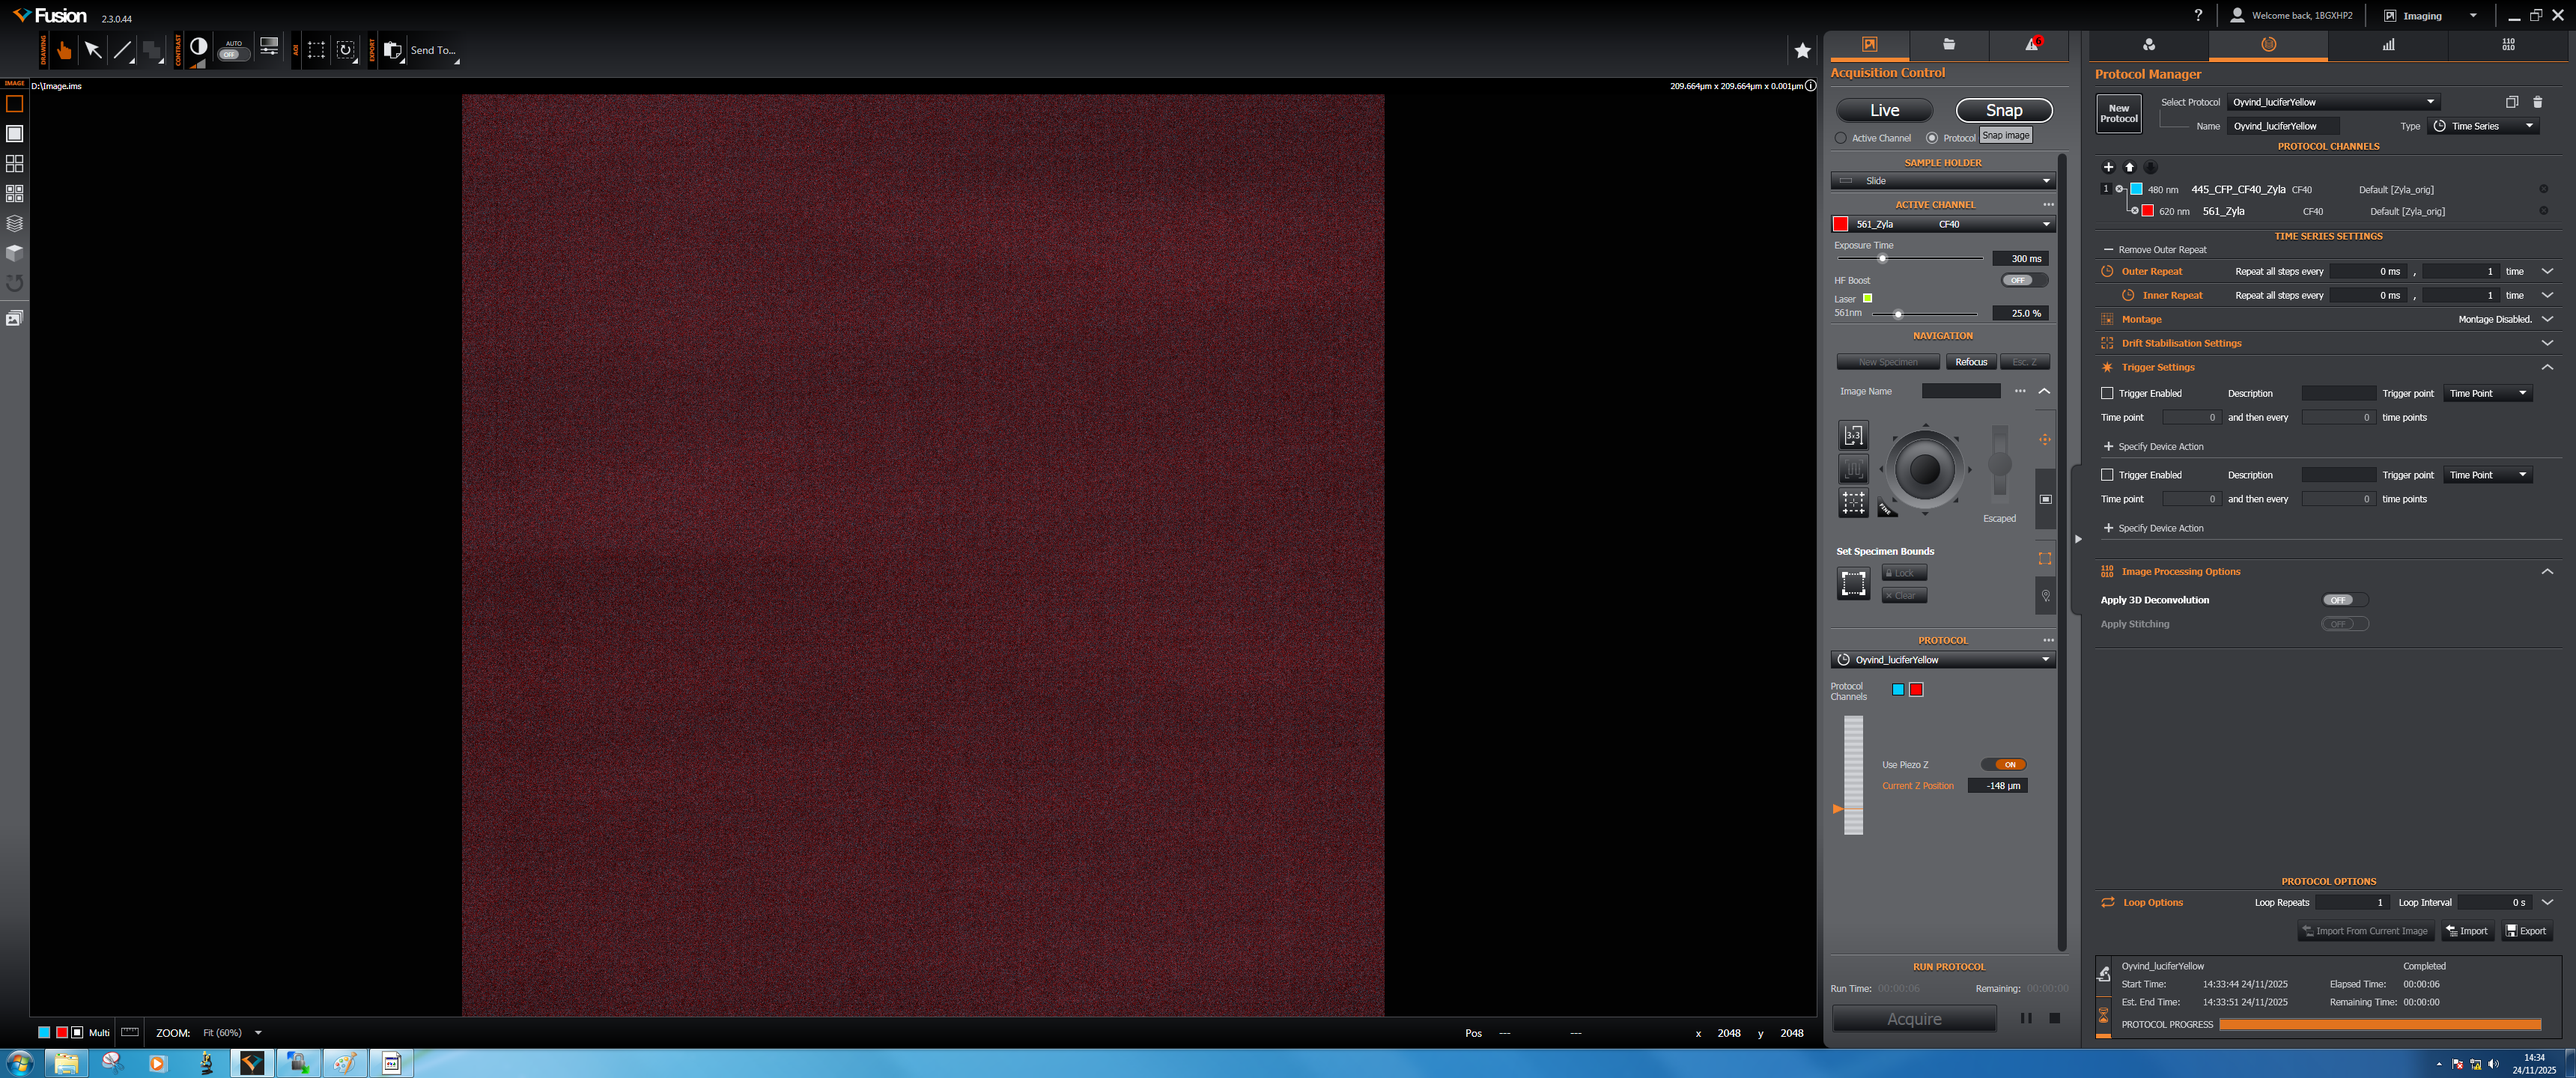
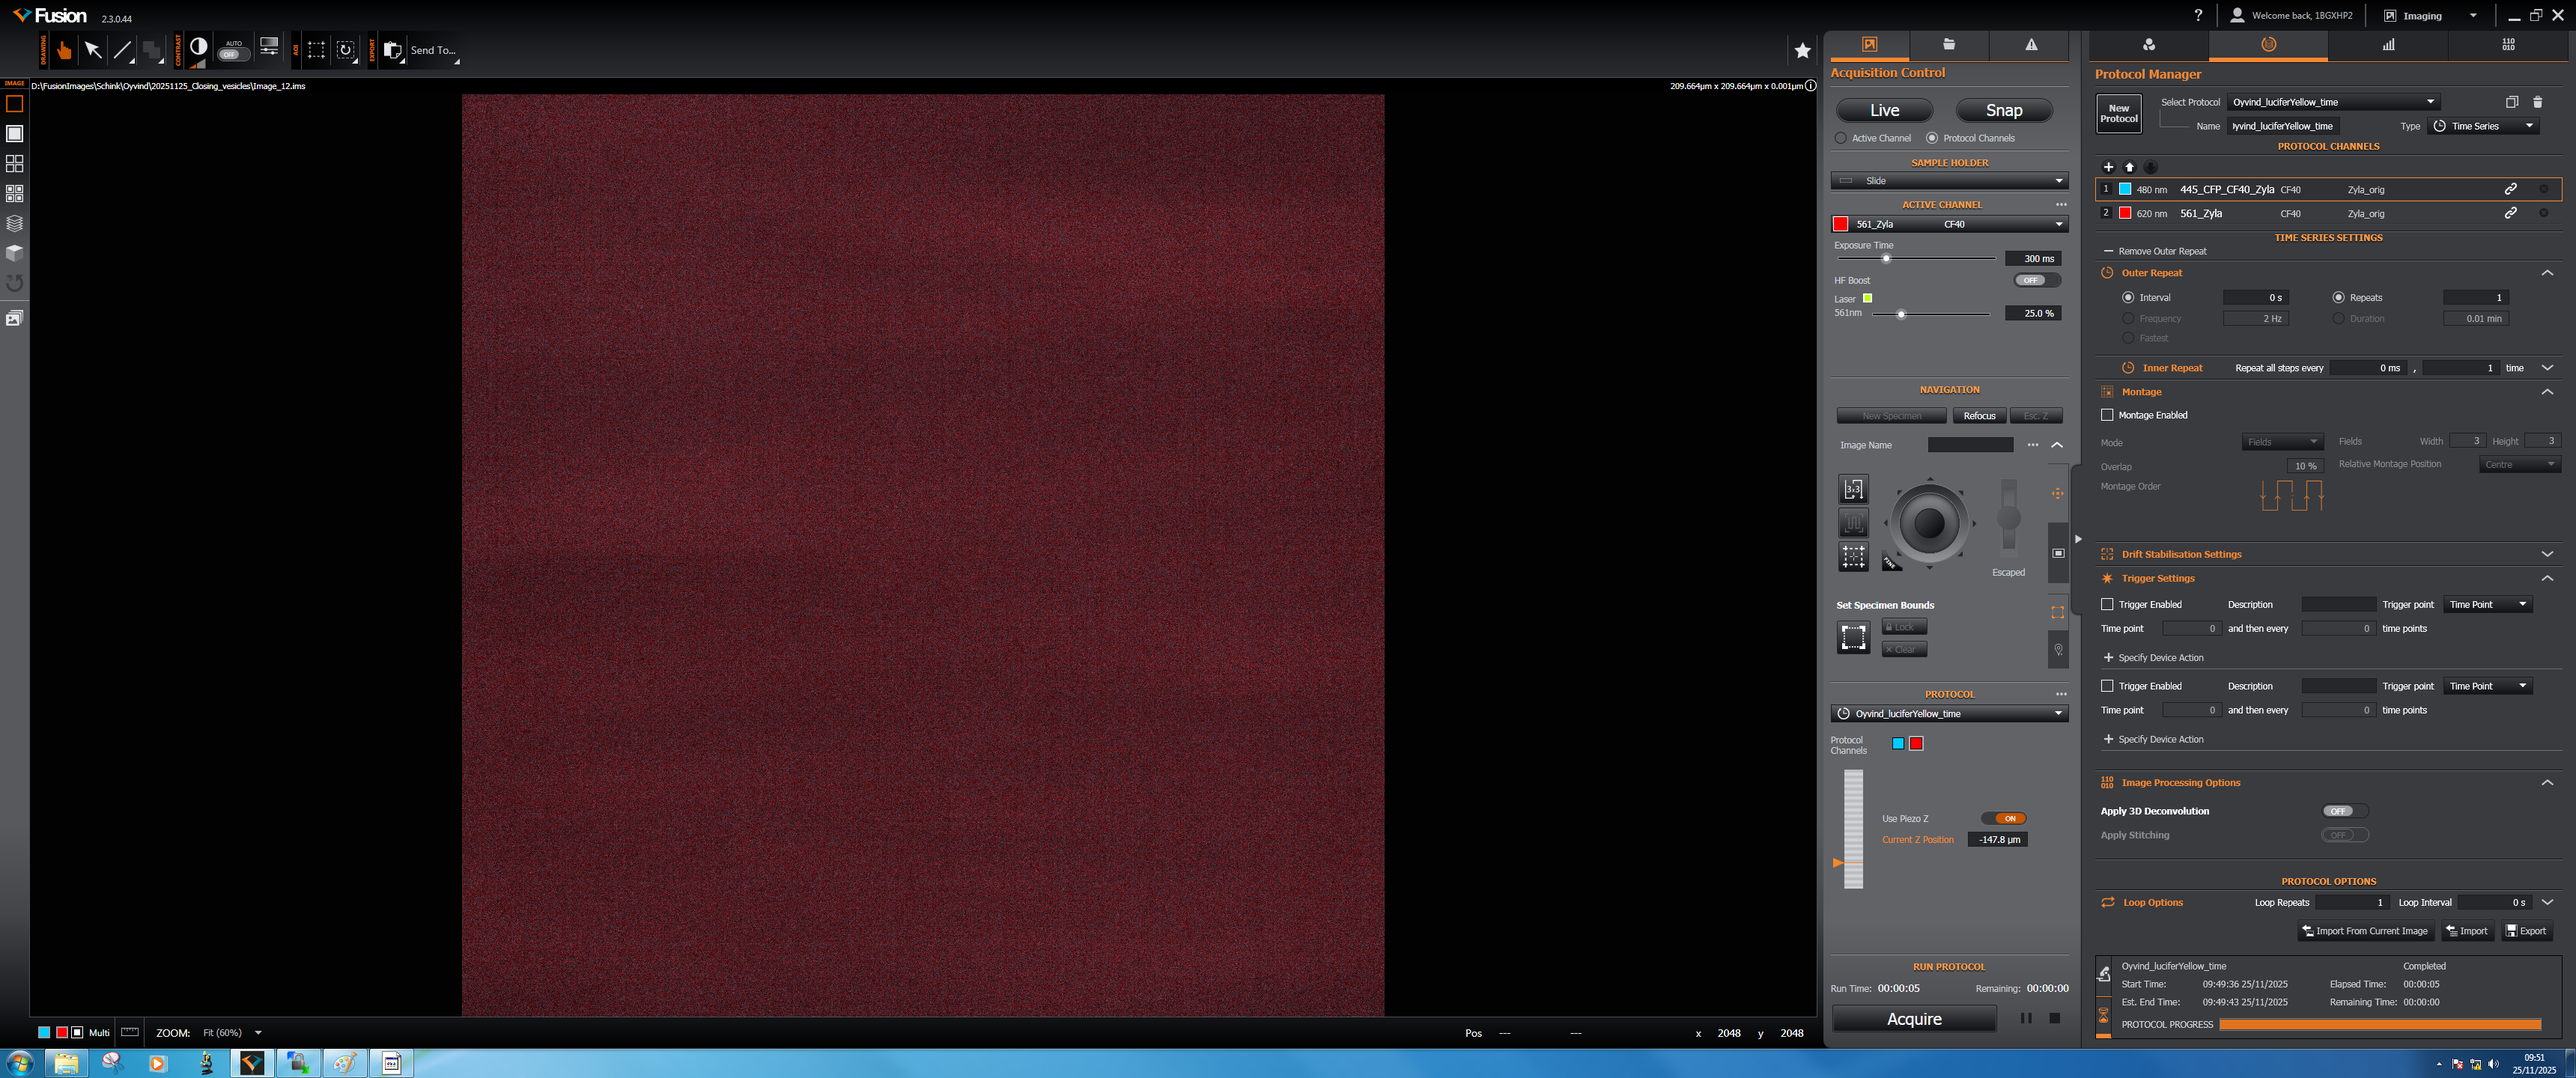
start of imaging 20251125

diff --git a/run_protocol_cli.py b/run_protocol_cli.py
@@ -551,6 +551,19 @@ def run_sequence(
                             interruptible_sleep(duration)
                         continue
                     
+                    # Handle valve_toggle
+                    if "valve_toggle" in substep:
+                        if not valve:
+                            sys.exit("Valve requested but not initialized.")
+                        print(f"    [VALVE] TOGGLE")
+                        try:
+                            resp = valve.toggle()
+                            if resp:
+                                print(f"      [VALVE RESP] {resp}")
+                        except Exception as e:
+                            print(f"      [WARN] Failed to toggle valve: {e}")
+                        continue
+                    
                     # Handle wait in loop
                     if "wait" in substep:
                         wait_s = float(substep["wait"])
@@ -623,8 +636,14 @@ def run_sequence(
                         else:
                             error_msg = microscope.get_error_details()
                             print(f"    [MICROSCOPE] [FAIL] Button '{action}' not found or click failed: {error_msg}")
-                            print("[ABORT] Cannot continue without image acquisition - stopping protocol")
-                            raise RuntimeError(f"Microscope button click failed: {error_msg}")
+                            
+                            # If wait_complete is False, we're running async - just warn and continue
+                            if not wait_complete:
+                                print("    [WARN] Microscope operation failed, but continuing protocol since wait_complete=false")
+                            else:
+                                # Critical failure - can't proceed without microscope
+                                print("[ABORT] Cannot continue without image acquisition - stopping protocol")
+                                raise RuntimeError(f"Microscope button click failed: {error_msg}")
                         continue
             
             print(f"[LOOP] Completed")
@@ -683,8 +702,16 @@ def run_sequence(
                 else:
                     error_msg = microscope.get_error_details()
                     print(f"[MICROSCOPE] [FAIL] Button '{action}' not found or click failed: {error_msg}")
-                    print("[ABORT] Cannot continue without image acquisition - stopping protocol")
-                    raise RuntimeError(f"Microscope button click failed: {error_msg}")
+                    
+                    # If wait_complete is False, we're running async - just warn and continue
+                    # The user wants the pump to keep running even if microscope has issues
+                    if not wait_complete:
+                        print("[WARN] Microscope operation failed, but continuing protocol since wait_complete=false")
+                        print("       The pump will continue changing buffers during acquisition")
+                    else:
+                        # Critical failure - can't proceed without microscope
+                        print("[ABORT] Cannot continue without image acquisition - stopping protocol")
+                        raise RuntimeError(f"Microscope button click failed: {error_msg}")
             continue
         
         # Legacy: Microscope acquire command (alias for microscope: run)
